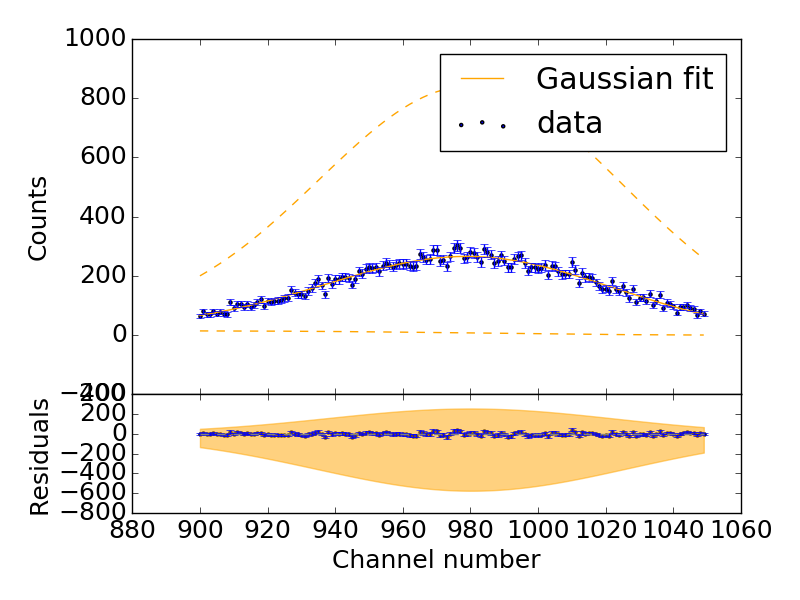
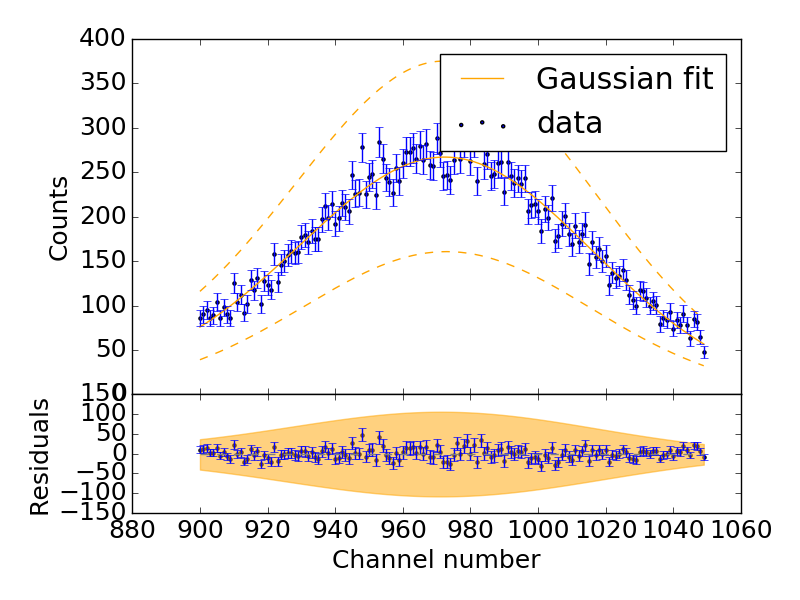
added uncertainty propagation in maxx calculator

diff --git a/scripts/gaussian_fitter.py b/scripts/gaussian_fitter.py
@@ -120,26 +120,28 @@ def line_fit(points_y, litterature, plot = True):
     print(popt, uncertainty)
     return popt, uncertainty
 
-def calibrator_fit(data):
-    '''
-    Performs a calibration on a data set of size (4x2x2048)
-    and returns the parameters a,b of the line fit and their uncertainties
-    '''
-    line_points = [plotter(data, [1200,1450], 'Na-22', 1360), 
-                   plotter(data, [900,1050], 'Ba-133', 970),
-                   plotter(data, [1550,1910], 'Cs-137', 1742, guess_width = 58, guess_height=77),
-                   plotter(data, [315,380], 'Co-57', 350,  guess_width = 2, guess_height=1600)]
-    [params,unc] = line_fit(np.array(line_points), [[511.0, 356.0129, 661.657, 122.06065],[5, 7, 3, 12]])
+# def calibrator_fit(data):
+#     '''
+#     Performs a calibration on a data set of size (4x2x2048)
+#     and returns the parameters a,b of the line fit and their uncertainties
+#     '''
+#     line_points = [plotter(data, [1200,1450], 'Na-22', 1360), 
+#                    plotter(data, [900,1050], 'Ba-133', 970),
+#                    plotter(data, [1550,1910], 'Cs-137', 1742, guess_width = 58, guess_height=77),
+#                    plotter(data, [315,380], 'Co-57', 350,  guess_width = 2, guess_height=1600)]
+#     [params,unc] = line_fit(np.array(line_points), [[511.0, 356.0129, 661.657, 122.06065],[5, 7, 3, 12]])
 
-    return params, unc
+#     return params, unc
 
 if __name__ == "__main__":
     elements = {}
-    for element in ft.SOURCE_NAMES:
-        elements[element] = ft.get_data(os.path.join("../data/tungsten/Angles/55/00_Other_Sources", element))
-    line_points = []
-    line_points.append(plotter([1200,1450], 'Na-22', guess_mean = 1360))
-    line_points.append(plotter([900,1050], 'Ba-133', guess_mean = 970))
-    line_points.append(plotter([1550,1910], 'Cs-137', 1742, guess_width = 58, guess_height=77))
-    line_points.append(plotter([315,380], 'Co-57', 350,  guess_width = 2, guess_height=1600))
-    line_fit(np.array(line_points), [[511.0, 356.0129, 661.657, 122.06065],[5, 7, 3, 12]]) 
+    for angle in [105]: # [55,75,95,105,220]:
+        for element in ft.SOURCE_NAMES:
+            elements[element] = ft.get_data(os.path.join("../data/tungsten/Angles/{}/00_Other_Sources".format(angle), element))
+        line_points = []
+        # line_points.append(plotter([1200,1450], 'Na-22', guess_mean = 1360))
+        # line_points.append(plotter([900,1050], 'Ba-133', guess_mean = 970))
+        line_points.append(plotter([1550,1910], 'Cs-137', 1742, guess_width = 58, guess_height=77), plot = True)
+        # line_points.append(plotter([315,380], 'Co-57', 350,  guess_width = 2, guess_height=1600))
+        [a,b], [a_u,b_u] = line_fit(np.array(line_points), [[511.0, 356.0129, 661.657, 122.06065],[5, 7, 3, 12]]) 
+        np.savez("../data/tungsten/Angles/{}/line_coefs.npz".format(angle), coefs = [a,b], unc = [a_u, b_u])

diff --git a/scripts/mass_calculator.py b/scripts/mass_calculator.py
@@ -1,5 +1,7 @@
 import numpy as np
-
+from uncertainties import ufloat
+from uncertainties.umath import cos, sqrt
+from scipy import constants as con
 
 def mass_electron(peak_location, a, b, theta):
     '''
@@ -11,25 +13,28 @@ def mass_electron(peak_location, a, b, theta):
     where c = 3*10^8 m/s, E_i = 661.6 keV (energy of the source) and theta is in rad.
     '''
     
-    c = 3e8
-    Ei = 661.6e3*1.602e-19 # 661.6 keV converted to Joules
     
-    Ef = ( a*peak_location + b )*10**3*1.602e-19
+    Ei = ufloat(661.657e3*con.e, 0.003*con.e) # 661.6 keV converted to Joules
     
-    mass = (1/c**2) * 1/( 1/Ef - 1/Ei ) * ( 1 - np.cos( theta*np.pi/180) )
+    Ef = (a*peak_location + b )*10**3*con.e #if these numbers are wrong thats linda fault
+    
+    mass = (1/con.c**2) * 1/( 1/Ef - 1/Ei ) * ( 1 - cos( theta*np.pi/180) )
     
     return mass
     
-    
-peaks_data = np.load('../data/tungsten/Angles/peaks.npz')
-a = 0.3856 
-b = -14.9
 
-mass = []
-for i in range(len(peaks_data['angles'])):
-    mass.append( mass_electron(peaks_data['peaks'][i], a, b, peaks_data['angles'][i]) )
-    print('theta = {} deg -> mass = {} kg'.format( peaks_data['angles'][i], round(mass[i], 35) ))
-    
-print('Standard deviation of masses = ', round(np.std(mass), 35) )
-
-    
+if __name__ == '__main__':
+    peaks_data = np.load('../data/tungsten/Angles/peaks.npz')
+    for i in range(len(peaks_data['angles'])):
+        line_data = np.load("../data/tungsten/Angles/{}/line_coefs.npz".format(peaks_data['angles'][i]))
+        coef, unc = line_data['coefs'], line_data['unc']
+        a = ufloat(coef[0], unc[0])
+        b = ufloat(coef[1], unc[1])
+        mass = []
+        if peaks_data["angles"][i] == 220:
+            print("LOLZZZ")
+            continue
+        mass.append(mass_electron(ufloat(peaks_data['peaks'][i], peaks_data['uncertainty'][i]), a, b, ufloat(peaks_data['angles'][i], 0.1) ))
+        print('theta = {} deg -> mass = {} kg'.format( peaks_data['angles'][i], mass[i] ))
+        
+    print('Average is given by: ', np.average([x.nominal_value for x in mass], weights = [x.std_dev for x in mass]), "pm", 1/np.sqrt(np.sum([x.std_dev for x in mass])))

diff --git a/scripts/noise_profile.py b/scripts/noise_profile.py
@@ -16,6 +16,13 @@ def fitter(sup_path, plot = True):
     and returns the parameters a,b of the line fit and their uncertainties
     '''
     data = gf.collapse_data(ft.get_data(path.join(sup_path, "01_No_Scatterer")))[220:]
+    
+    padded_noise = np.pad(calib_noise,(window//2, window//2), mode="edge")
+    array_view = np.lib.stride_tricks.as_strided(padded_noise, shape=(calib_noise.size,window), strides=[padded_noise.strides[0] for i in range(2)])
+    noise_model =np.mean(array_view, axis=-1)
+    noise_model = np.maximum(np.ones(noise_model.size), noise_model)
+    noise_model = np.sqrt(noise_model)
+    print(np.min(noise_model))
     x = np.linspace(220,2047,2048-220)
     uncert = np.sqrt(data)
     print(data)
